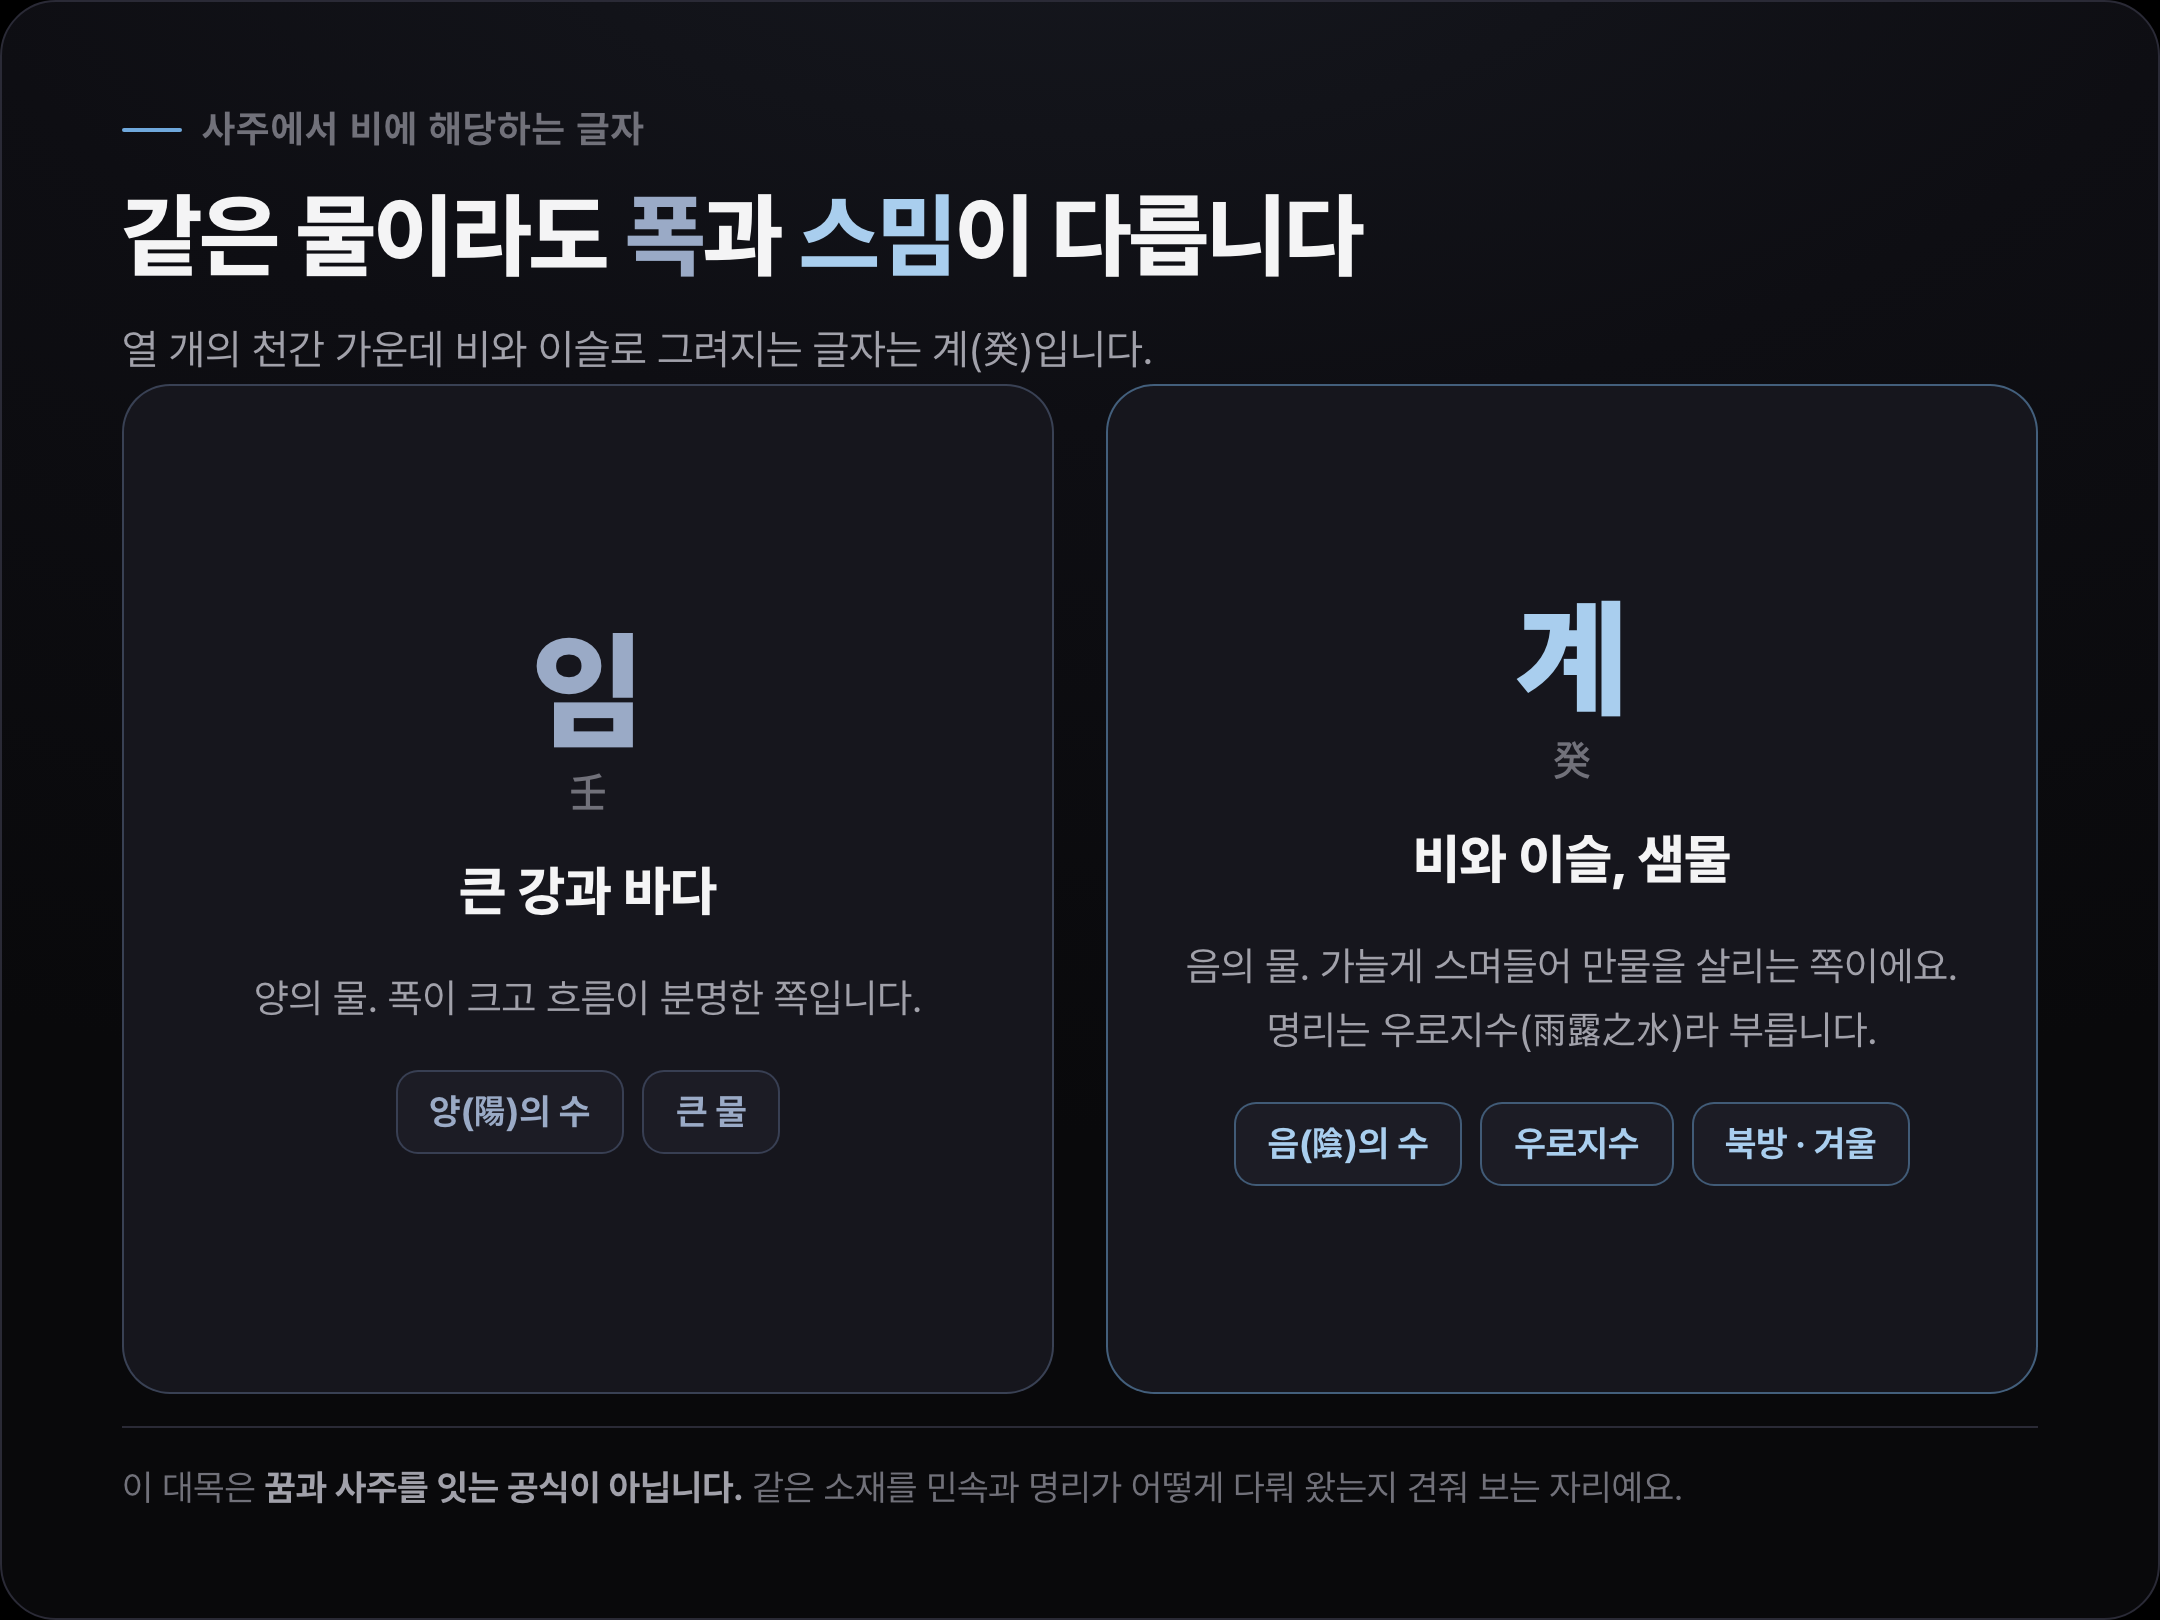
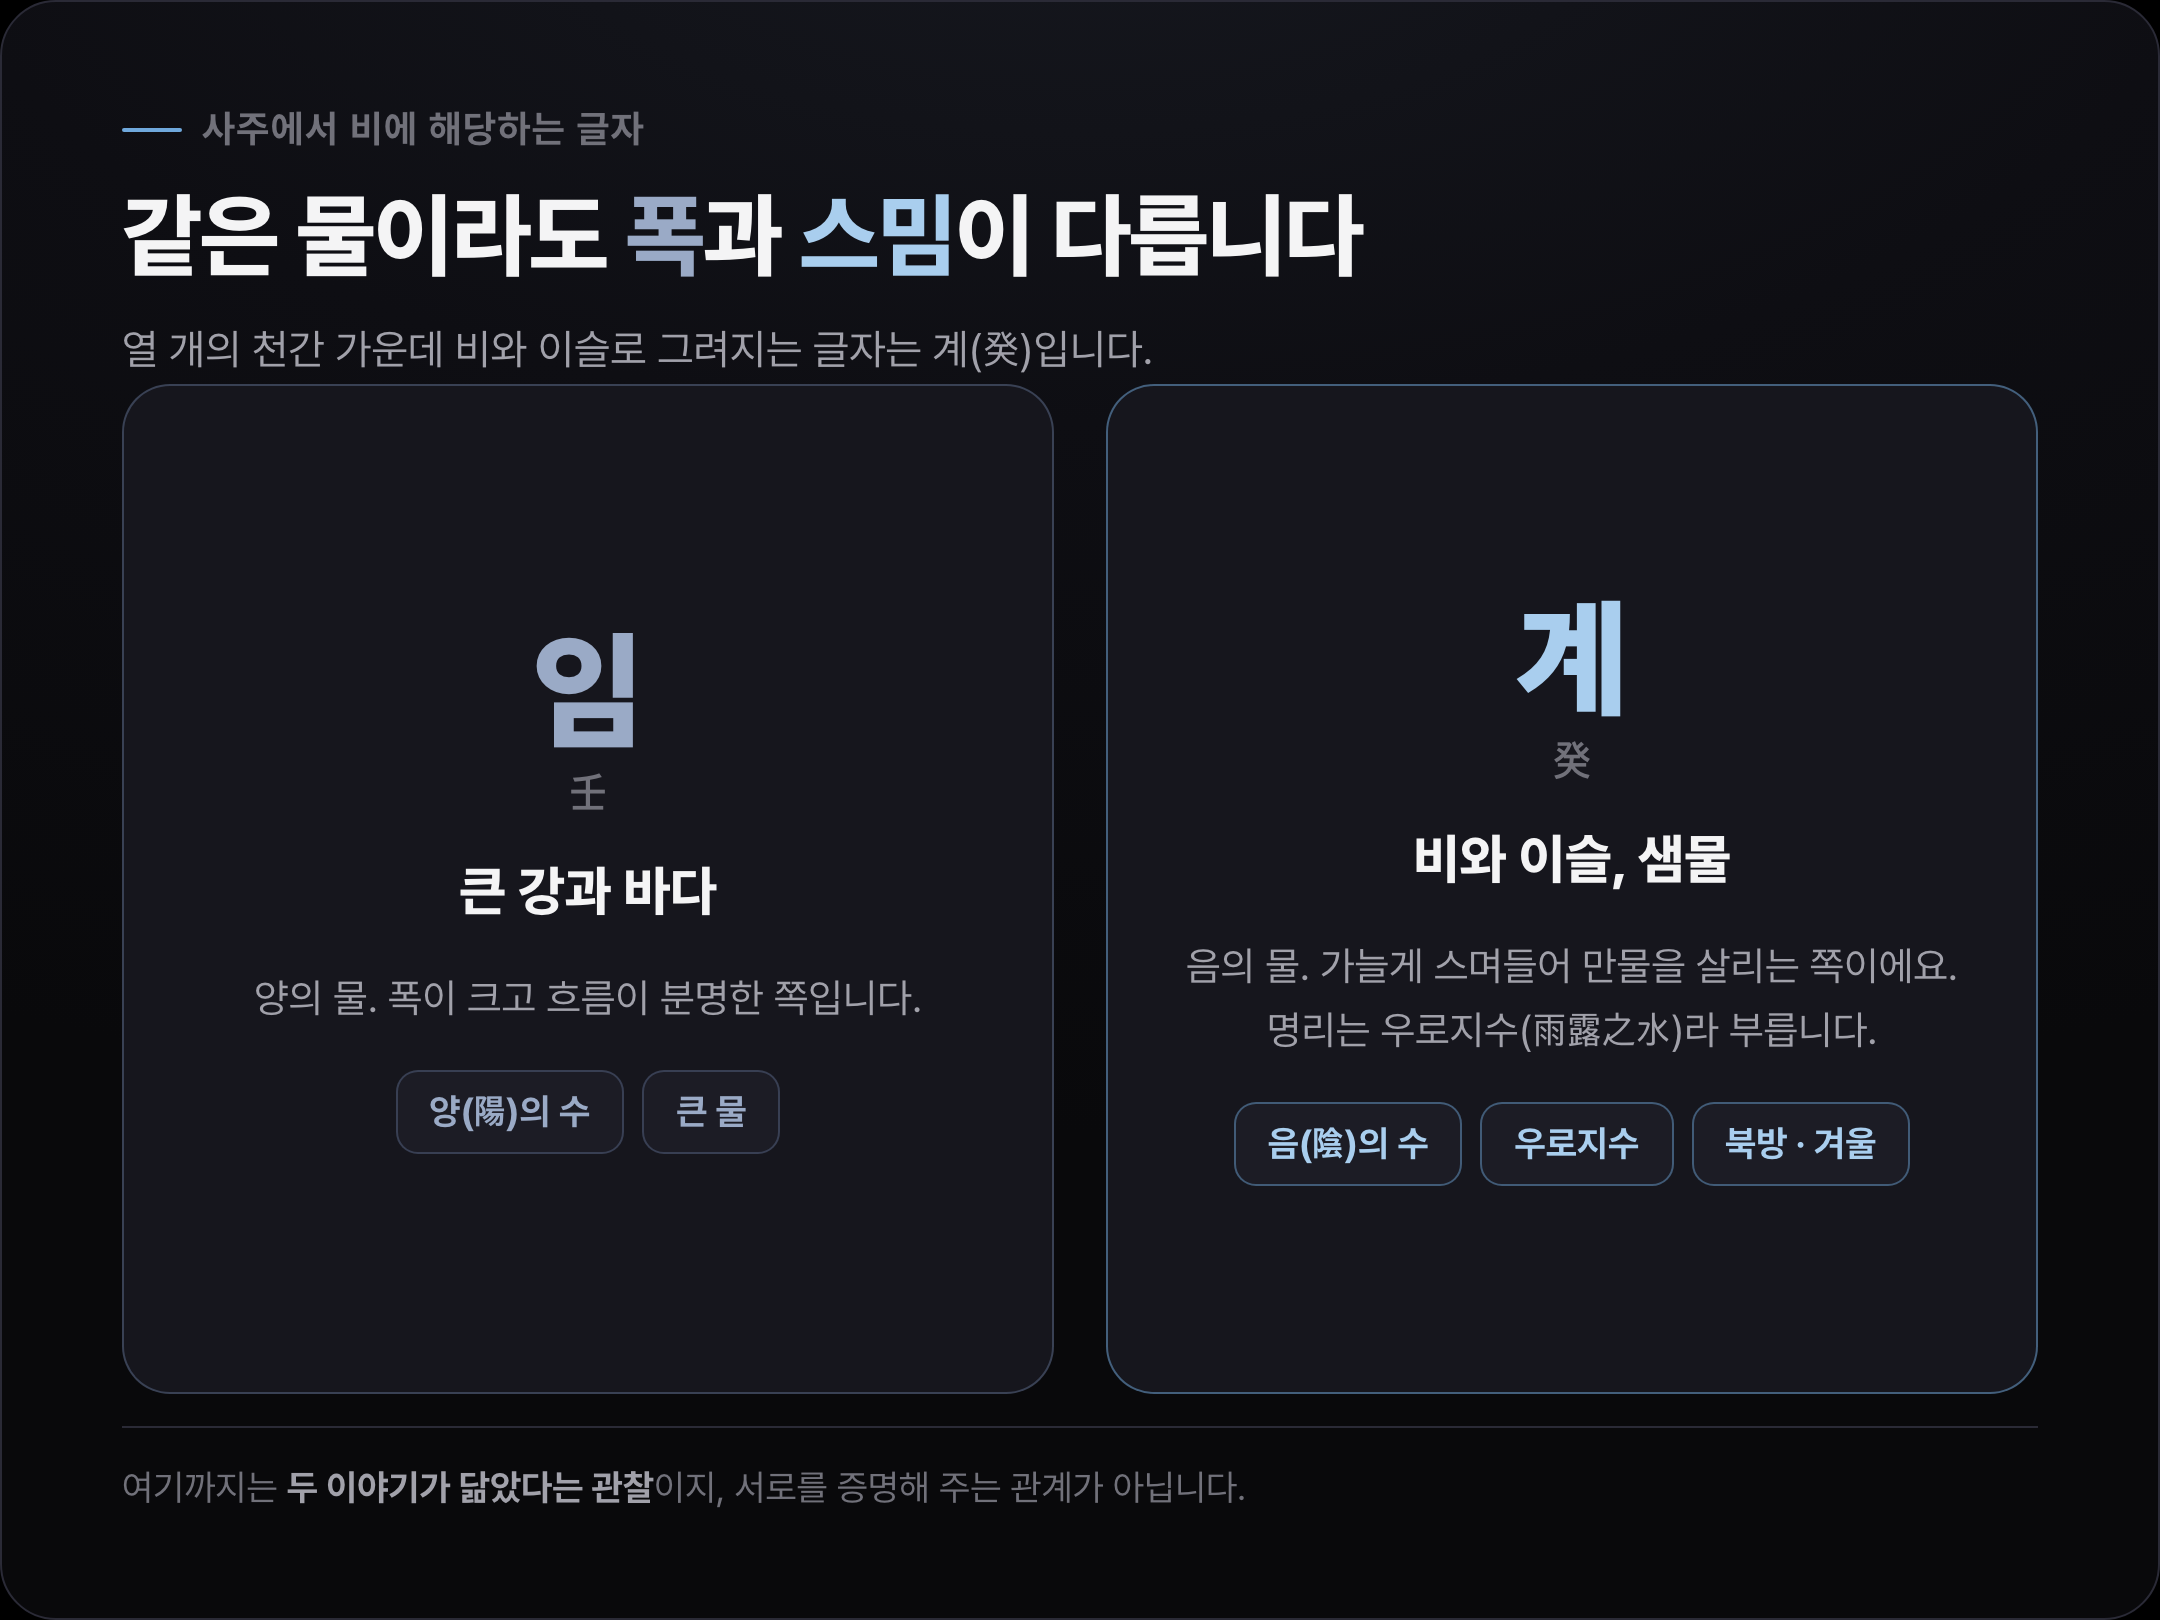
fix(stories): 비 오는 꿈 fig3 푸터 — 본문에서 지운 문장이 카드에 남아 있었다
본문에서 bird-dream 클론 문장을 지웠는데 렌더 자산에는 그대로
남아 발행될 뻔했다. figure 2에서 같은 일이 한 번 더 있었다 —
본문을 고치면 그 절의 figure를 반드시 같이 연다.

표 caption 지목 목록에 '비 맞음' 누락분 추가.

Changed region(s): [[0.062, 0.8951, 0.7755, 0.9259]]

diff --git a/lib/stories/data/rain-dream.ts b/lib/stories/data/rain-dream.ts
@@ -86,7 +86,7 @@ export const rainDream: Story = {
             ["빗소리만 오래 들림", "장면이 흐려도 소리가 남는 자리", "요즘 혼자 정리하는 생각이 있는지"],
           ],
           caption:
-            "가는 비와 폭우, 갠 하늘, 그리고 씻긴 느낌은 널리 전해 온 갈래입니다. 우산·처마·창밖·젖은 옷·빗소리는 거기에 태도라는 축을 얹어 이 글이 정리한 것이고요.",
+            "가는 비와 폭우, 갠 하늘, 그리고 씻긴 느낌은 널리 전해 온 갈래입니다. 비 맞음·우산·처마·창밖·젖은 옷·빗소리는 거기에 태도라는 축을 얹어 이 글이 정리한 것이고요.",
         },
       ],
     },
@@ -175,7 +175,7 @@ export const rainDream: Story = {
         },
         {
           kind: "p",
-          text: "선을 하나 그어 두겠습니다. **여기까지는 두 이야기가 닮았다는 관찰이지, 서로를 증명해 주는 관계가 아닙니다.** 간밤에 비를 봤다고 원국에 계수가 들어앉는 것도 아니고, 계수가 없다고 그 꿈이 무효가 되는 것도 아니에요.",
+          text: "선을 하나 그어 두겠습니다. **여기까지는 두 이야기가 닮았다는 관찰이지, 서로를 증명해 주는 관계가 아닙니다.** 지난밤 비를 봤다고 원국에 계수가 들어앉는 것도 아니고, 계수가 없다고 그 꿈이 무효가 되는 것도 아니에요.",
         },
       ],
     },
